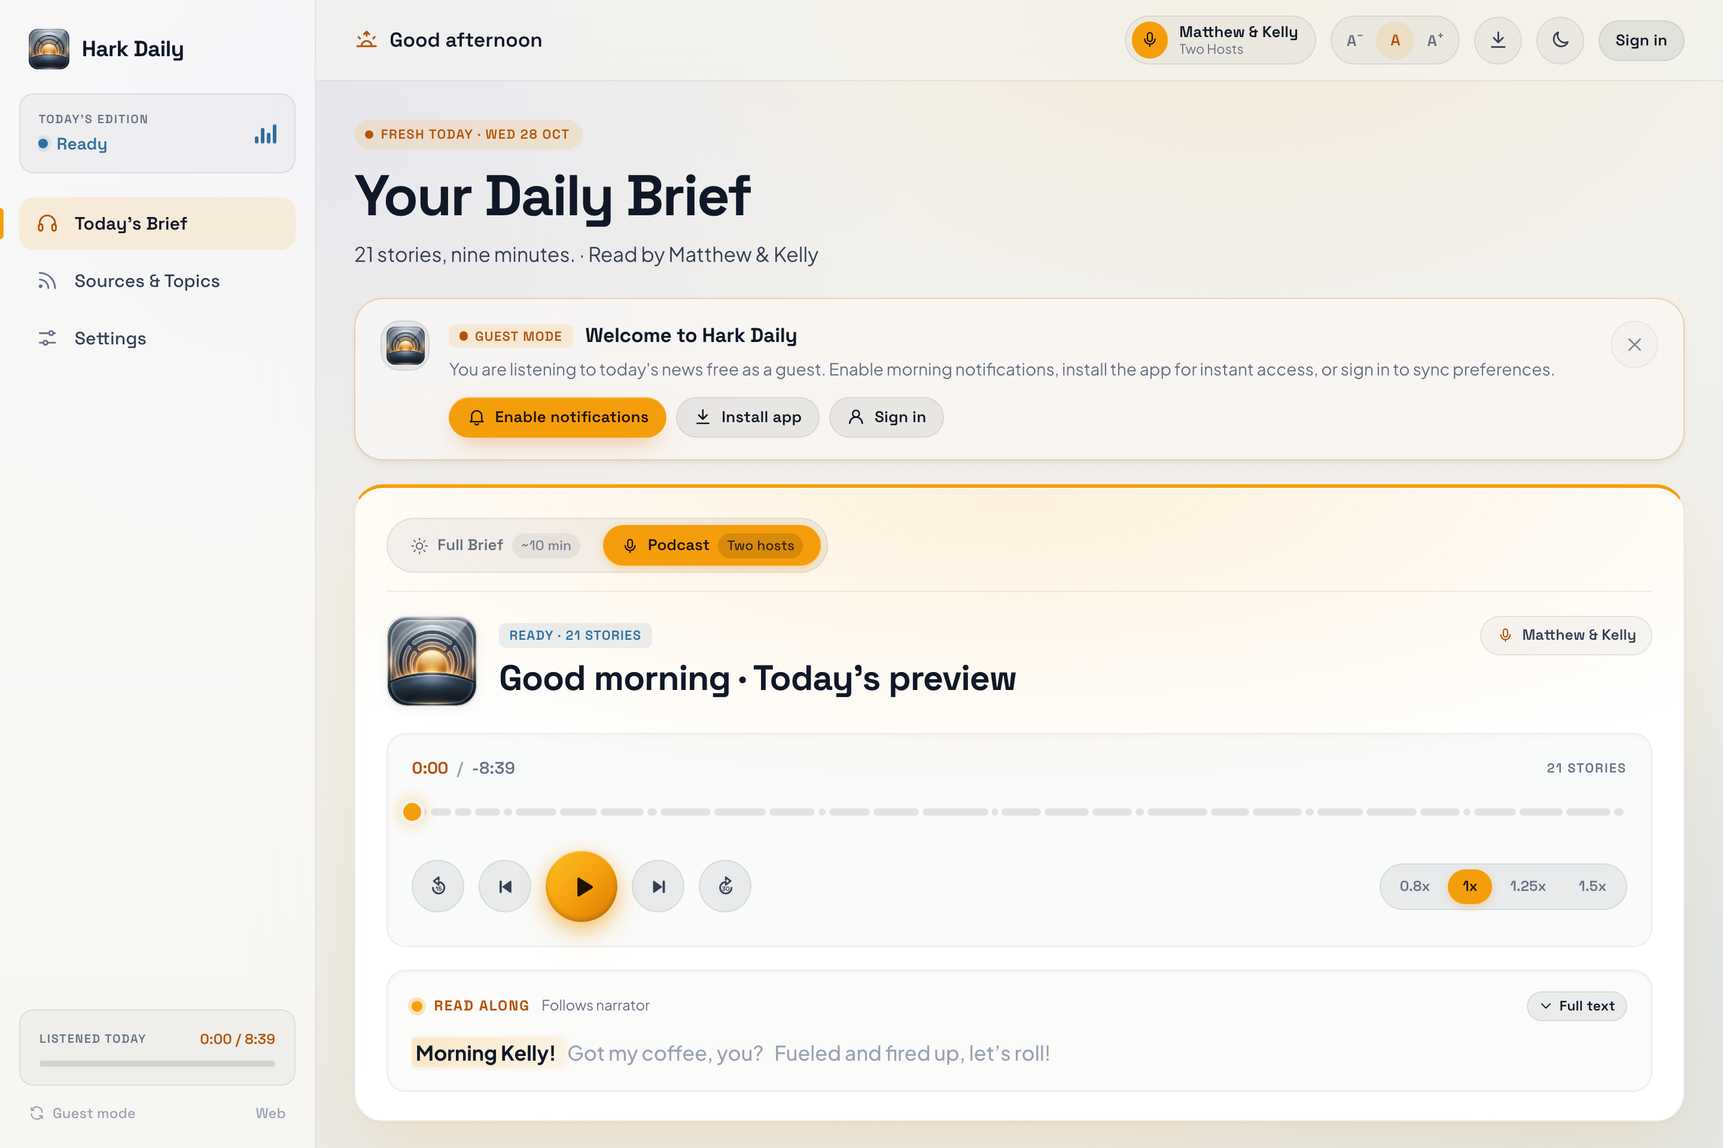
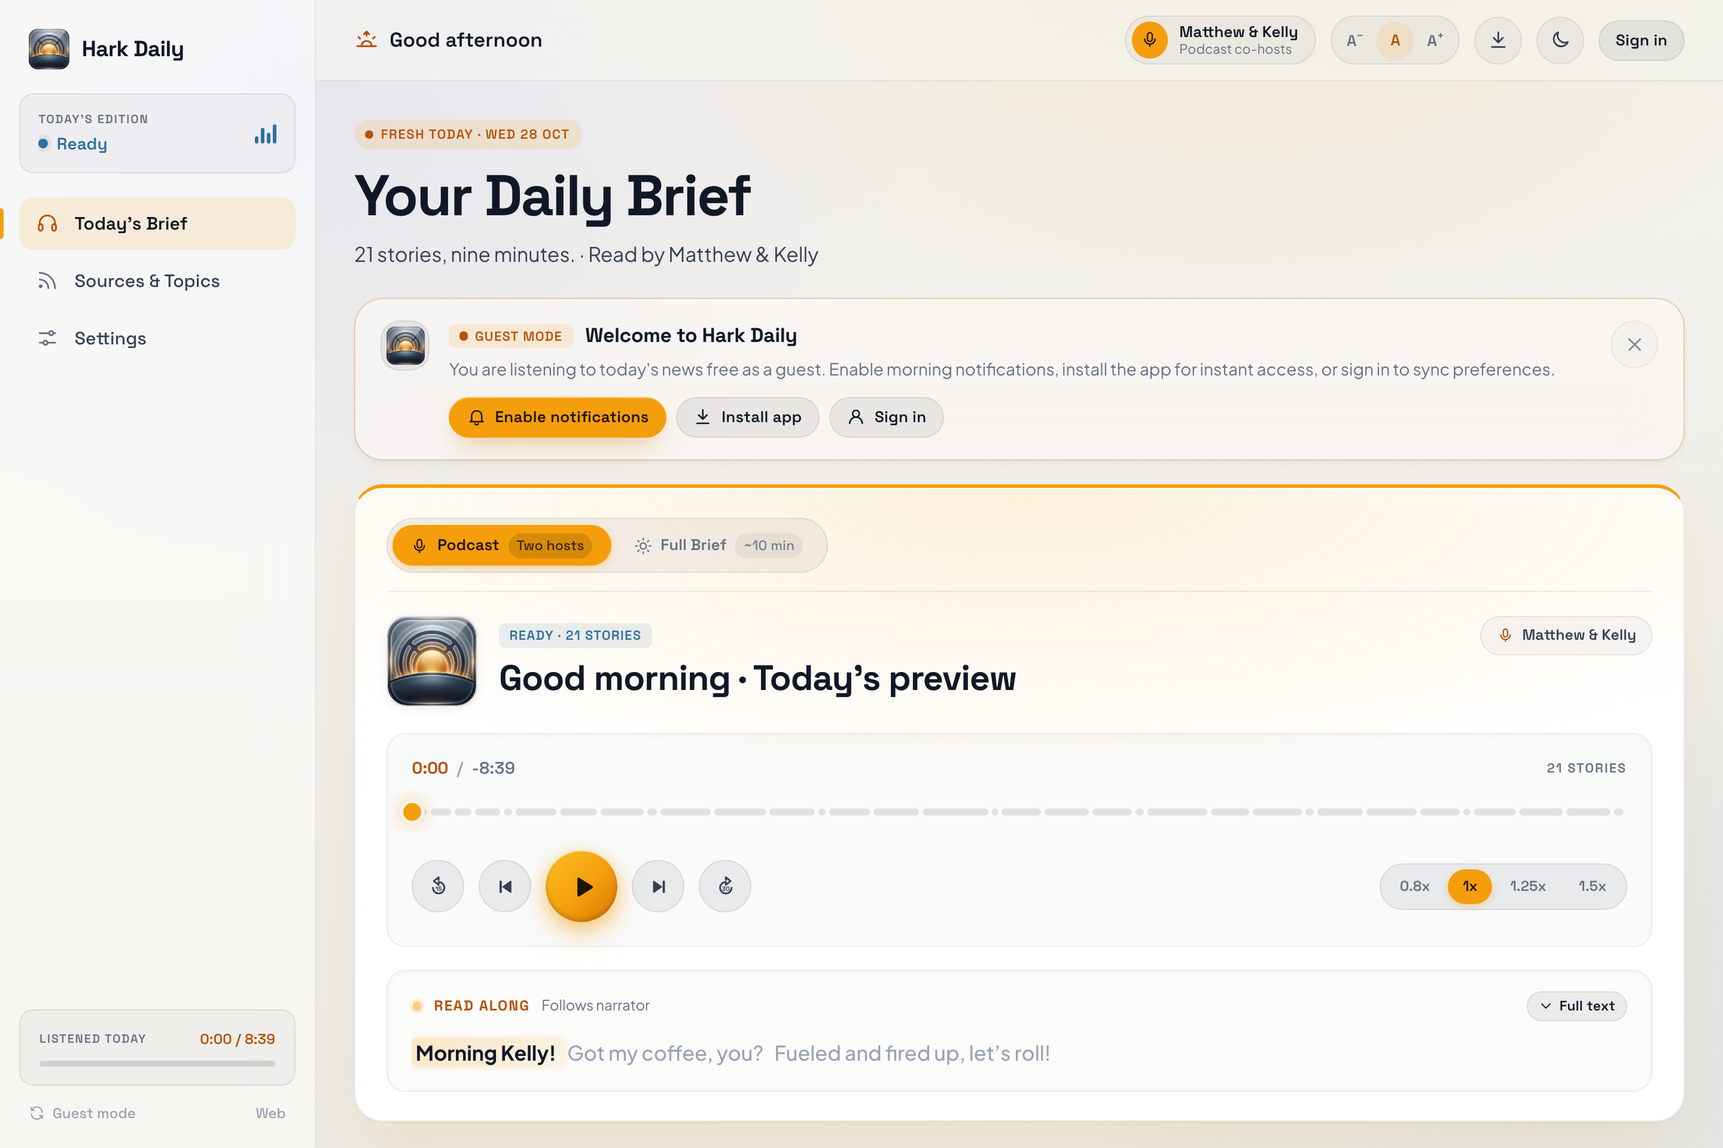
feat: default to podcast mode with swapped tabs and lock voice switching in podcast

Changed region(s): [[0.2188, 0.4375, 0.5, 0.5], [0.6875, 0.0312, 0.7188, 0.0625]]

diff --git a/web/js/app.js b/web/js/app.js
@@ -132,15 +132,18 @@ function renderHeader() {
   }
 
   // Active narrator chip & preview
+  const isPodcast = activeMode() === 'podcast';
   const activeVoiceId = b?.voice?.id || state.profile?.settings?.voice || DEFAULT_VOICE_ID;
   const activeVoice = voiceFor(activeVoiceId);
   const nName = $('narratorName');
-  if (nName) nName.textContent = activeVoice.name;
+  if (nName) nName.textContent = isPodcast && b?.voice?.name ? b.voice.name : activeVoice.name;
   const nDesc = $('narratorDesc');
-  if (nDesc) nDesc.textContent = activeVoice.style || activeVoice.desc;
+  if (nDesc) nDesc.textContent = isPodcast ? 'Podcast co-hosts' : (activeVoice.style || activeVoice.desc);
   const narrBy = $('narratedBy');
   if (narrBy) {
-    if (b?.voice?.isFallback && b?.voice?.requested) {
+    if (isPodcast) {
+      narrBy.textContent = `Voiced by ${b?.voice?.name || 'co-hosts'} · Daily podcast discussion`;
+    } else if (b?.voice?.isFallback && b?.voice?.requested) {
       narrBy.textContent = `Narrated by ${activeVoice.name} (${voiceName(b.voice.requested)} unrecorded) · ${activeVoice.style || activeVoice.desc}`;
     } else {
       narrBy.textContent = `Narrated by ${activeVoice.name} · ${activeVoice.style || activeVoice.desc}`;
@@ -148,6 +151,22 @@ function renderHeader() {
   }
   const heroNarrName = $('heroNarratorName');
   if (heroNarrName) heroNarrName.textContent = b?.voice?.name || activeVoice.name;
+
+  const heroNarrBtn = $('heroNarratorBtn');
+  const narrChip = $('narratorChip');
+  if (isPodcast) {
+    heroNarrBtn?.classList.add('is-podcast-locked');
+    heroNarrBtn?.setAttribute('aria-label', `${b?.voice?.name || 'Co-hosts'} (locked in Podcast mode)`);
+    heroNarrBtn?.setAttribute('title', 'Podcast mode uses pre-selected co-hosts. Switch to Full Brief to change narrator.');
+    narrChip?.classList.add('is-podcast-locked');
+    narrChip?.setAttribute('title', 'Podcast mode uses pre-selected co-hosts. Switch to Full Brief to change narrator.');
+  } else {
+    heroNarrBtn?.classList.remove('is-podcast-locked');
+    heroNarrBtn?.setAttribute('aria-label', 'Change narrator');
+    heroNarrBtn?.setAttribute('title', 'Change narrator');
+    narrChip?.classList.remove('is-podcast-locked');
+    narrChip?.setAttribute('title', 'Change narrator');
+  }
 
   // Avatar and Sign In controls for guest vs signed-in
   const isGuest = !state.profile;
@@ -294,11 +313,12 @@ function podcastOn() {
   return FEATURES.podcast && state.status?.podcast?.enabled !== false;
 }
 
-/** The edition to build: a stored choice that has since been switched off falls back to Full. */
+/** The edition to build: defaults to Podcast when available, falls back to Full. */
 function activeMode() {
-  if (state.mode === 'podcast') return podcastOn() ? 'podcast' : 'full';
+  if (state.mode === 'full') return 'full';
   if (state.mode === 'rapid') return FEATURES.rapid ? 'rapid' : 'full';
-  return 'full';
+  if (state.mode === 'podcast' || !state.mode) return podcastOn() ? 'podcast' : 'full';
+  return podcastOn() ? 'podcast' : 'full';
 }
 
 function syncModePicker() {
@@ -313,7 +333,7 @@ function syncModePicker() {
   podcastBtn?.classList.toggle('hidden', !podcastOn());
   // A single edition needs no switcher.
   $('briefModeBar')?.classList.toggle('hidden', !FEATURES.rapid && !podcastOn());
-  for (const [btn, key] of [[fullBtn, 'full'], [rapidBtn, 'rapid'], [podcastBtn, 'podcast']]) {
+  for (const [btn, key] of [[podcastBtn, 'podcast'], [fullBtn, 'full'], [rapidBtn, 'rapid']]) {
     if (!btn) continue;
     btn.classList.toggle('on', mode === key);
     btn.setAttribute('aria-checked', String(mode === key));
@@ -356,25 +376,37 @@ function renderHero() {
 function renderPersonas() {
   const row = $('personaRow');
   if (!row) return;
+  const isPodcast = activeMode() === 'podcast';
   const activeVoiceId = state.briefing?.voice?.id || state.profile?.settings?.voice || DEFAULT_VOICE_ID;
   const available = new Set(state.briefing?.availableVoices || []);
+  const hintEl = $('narratorSheetHint');
+  if (hintEl) {
+    hintEl.textContent = isPodcast
+      ? 'Podcast mode uses pre-selected co-hosts (Matthew & Kelly). Switch to Full Brief on the player to customize your narrator.'
+      : 'All four narrators read the daily briefing for the Full Brief edition. Pick who you\'d like to hear.';
+  }
   row.replaceChildren(...VOICES.map((v) => {
-    const on = v.id === activeVoiceId;
+    const on = !isPodcast && v.id === activeVoiceId;
     const isReady = available.size === 0 || available.has(v.id);
     const btn = h('button', {
       type: 'button',
-      class: 'persona' + (on ? ' on' : '') + (!isReady ? ' unready' : ''),
+      class: 'persona' + (on ? ' on' : '') + (!isReady ? ' unready' : '') + (isPodcast ? ' is-locked' : ''),
       'aria-pressed': String(on),
+      disabled: isPodcast,
       dataset: { voice: v.id },
     },
       h('span', { class: 'persona-avatar' }, icon(v.icon || 'mic')),
       h('span', { class: 'persona-text' },
         h('span', { class: 'persona-name' }, v.name),
-        h('span', { class: 'persona-desc' }, isReady ? (v.style || v.desc) : 'Pending for today')
+        h('span', { class: 'persona-desc' }, isPodcast ? 'Pre-selected for Full Brief only' : (isReady ? (v.style || v.desc) : 'Pending for today'))
       ),
-      isReady ? null : h('span', { class: 'persona-status' }, 'Pending')
+      isPodcast ? h('span', { class: 'persona-status' }, 'Locked') : (isReady ? null : h('span', { class: 'persona-status' }, 'Pending'))
     );
     btn.addEventListener('click', async () => {
+      if (isPodcast) {
+        toast('Podcast mode is voiced by co-hosts Matthew & Kelly. Switch to Full Brief to choose a narrator.');
+        return;
+      }
       if (v.id === activeVoiceId) {
         $('narratorSheet')?.close();
         return;
@@ -999,6 +1031,10 @@ function bindEvents() {
   const narrSheet = $('narratorSheet');
   if (narrSheet) wireSheet(narrSheet);
   const openNarratorSheet = () => {
+    if (activeMode() === 'podcast') {
+      toast('Podcast mode is voiced by co-hosts Matthew & Kelly. Switch to Full Brief to choose a narrator.');
+      return;
+    }
     renderPersonas();
     narrSheet?.showModal();
   };

diff --git a/android/app/src/main/java/me/vattitude/morningbrief/ui/TodayScreen.kt b/android/app/src/main/java/me/vattitude/morningbrief/ui/TodayScreen.kt
@@ -392,7 +392,7 @@ fun TodayScreen(vm: AppViewModel, modifier: Modifier = Modifier) {
                     }
             ) {
                 Column(Modifier.padding(horizontal = 14.dp, vertical = 12.dp)) {
-                    // Briefing Edition Switcher: Full Brief vs Podcast (Clean single-line pills)
+                    // Briefing Edition Switcher: Podcast vs Full Brief (Clean single-line pills)
                     Row(
                         Modifier
                             .fillMaxWidth()
@@ -402,38 +402,6 @@ fun TodayScreen(vm: AppViewModel, modifier: Modifier = Modifier) {
                             .padding(2.5.dp),
                         horizontalArrangement = Arrangement.spacedBy(3.dp)
                     ) {
-                        val fullOn = !isPodcast && !isRapid
-                        Row(
-                            Modifier
-                                .weight(1f)
-                                .height(32.dp)
-                                .clip(CircleShape)
-                                .background(if (fullOn) t.accent else Color.Transparent)
-                                .clickable { vm.setBriefingMode("full") }
-                                .padding(horizontal = 8.dp),
-                            verticalAlignment = Alignment.CenterVertically,
-                            horizontalArrangement = Arrangement.Center
-                        ) {
-                            Icon(
-                                Icons.Outlined.WbSunny,
-                                contentDescription = null,
-                                modifier = Modifier.size(13.dp),
-                                tint = if (fullOn) t.accentInk else t.muted
-                            )
-                            Spacer(Modifier.width(5.dp))
-                            Text(
-                                "Full Brief",
-                                style = Type.value.copy(fontSize = 11.5.sp, fontWeight = if (fullOn) FontWeight.Bold else FontWeight.Medium),
-                                color = if (fullOn) t.accentInk else t.muted
-                            )
-                            Spacer(Modifier.width(4.dp))
-                            Text(
-                                "~10m",
-                                style = Type.tiny.copy(fontSize = 10.sp),
-                                color = if (fullOn) t.accentInk.copy(alpha = 0.8f) else t.muted.copy(alpha = 0.7f)
-                            )
-                        }
-
                         val podcastOn = isPodcast
                         Row(
                             Modifier
@@ -463,6 +431,38 @@ fun TodayScreen(vm: AppViewModel, modifier: Modifier = Modifier) {
                                 "Two hosts",
                                 style = Type.tiny.copy(fontSize = 10.sp, fontWeight = FontWeight.SemiBold),
                                 color = if (podcastOn) t.accentInk.copy(alpha = 0.9f) else t.muted
+                            )
+                        }
+
+                        val fullOn = !isPodcast && !isRapid
+                        Row(
+                            Modifier
+                                .weight(1f)
+                                .height(32.dp)
+                                .clip(CircleShape)
+                                .background(if (fullOn) t.accent else Color.Transparent)
+                                .clickable { vm.setBriefingMode("full") }
+                                .padding(horizontal = 8.dp),
+                            verticalAlignment = Alignment.CenterVertically,
+                            horizontalArrangement = Arrangement.Center
+                        ) {
+                            Icon(
+                                Icons.Outlined.WbSunny,
+                                contentDescription = null,
+                                modifier = Modifier.size(13.dp),
+                                tint = if (fullOn) t.accentInk else t.muted
+                            )
+                            Spacer(Modifier.width(5.dp))
+                            Text(
+                                "Full Brief",
+                                style = Type.value.copy(fontSize = 11.5.sp, fontWeight = if (fullOn) FontWeight.Bold else FontWeight.Medium),
+                                color = if (fullOn) t.accentInk else t.muted
+                            )
+                            Spacer(Modifier.width(4.dp))
+                            Text(
+                                "~10m",
+                                style = Type.tiny.copy(fontSize = 10.sp),
+                                color = if (fullOn) t.accentInk.copy(alpha = 0.8f) else t.muted.copy(alpha = 0.7f)
                             )
                         }
                     }

diff --git a/web/index.html b/web/index.html
@@ -386,15 +386,15 @@
             <section class="glass hero hidden" id="hero" aria-label="Audio briefing">
               <div class="brief-mode-bar" id="briefModeBar">
                 <div class="segmented mode-segmented" role="radiogroup" aria-label="Briefing edition">
-                  <button type="button" class="seg-opt on" id="modeFullBtn" role="radio" aria-checked="true">
-                    <svg class="mode-icon" aria-hidden="true"><use href="#i-sun"/></svg>
-                    <span>Full Brief</span>
-                    <span class="mode-meta" id="modeFullMeta">~10 min</span>
-                  </button>
-                  <button type="button" class="seg-opt hidden" id="modePodcastBtn" role="radio" aria-checked="false">
+                  <button type="button" class="seg-opt on" id="modePodcastBtn" role="radio" aria-checked="true">
                     <svg class="mode-icon" aria-hidden="true"><use href="#i-mic"/></svg>
                     <span>Podcast</span>
                     <span class="mode-meta" id="modePodcastMeta">Two hosts</span>
+                  </button>
+                  <button type="button" class="seg-opt" id="modeFullBtn" role="radio" aria-checked="false">
+                    <svg class="mode-icon" aria-hidden="true"><use href="#i-sun"/></svg>
+                    <span>Full Brief</span>
+                    <span class="mode-meta" id="modeFullMeta">~10 min</span>
                   </button>
                   <button type="button" class="seg-opt hidden" id="modeRapidBtn" role="radio" aria-checked="false">
                     <svg class="mode-icon icon-rapid" aria-hidden="true"><use href="#i-bolt"/></svg>
@@ -573,15 +573,15 @@
           <div class="setting-group" id="welcomeModeGroup">
             <h3>Preferred Edition</h3>
             <div class="segmented mode-segmented welcome-mode" role="radiogroup" aria-label="Default edition">
-              <button type="button" class="seg-opt on" id="welcomeModeFull" role="radio" aria-checked="true">
-                <svg class="mode-icon" aria-hidden="true"><use href="#i-sun"/></svg>
-                <span>Full Brief</span>
-                <span class="mode-meta">~10 min</span>
-              </button>
-              <button type="button" class="seg-opt hidden" id="welcomeModePodcast" role="radio" aria-checked="false">
+              <button type="button" class="seg-opt on" id="welcomeModePodcast" role="radio" aria-checked="true">
                 <svg class="mode-icon" aria-hidden="true"><use href="#i-mic"/></svg>
                 <span>Podcast</span>
                 <span class="mode-meta">Two hosts</span>
+              </button>
+              <button type="button" class="seg-opt" id="welcomeModeFull" role="radio" aria-checked="false">
+                <svg class="mode-icon" aria-hidden="true"><use href="#i-sun"/></svg>
+                <span>Full Brief</span>
+                <span class="mode-meta">~10 min</span>
               </button>
               <button type="button" class="seg-opt hidden" id="welcomeModeRapid" role="radio" aria-checked="false">
                 <svg class="mode-icon icon-rapid" aria-hidden="true"><use href="#i-bolt"/></svg>
@@ -726,7 +726,7 @@
       <button class="icon-btn" data-close aria-label="Close"><svg><use href="#i-close"/></svg></button>
     </div>
     <div class="sheet-body">
-      <p class="hint">All four narrators read the same daily briefing. Pick who you'd like to hear.</p>
+      <p class="hint" id="narratorSheetHint">All four narrators read the daily briefing for the Full Brief edition. Pick who you'd like to hear.</p>
       <div class="persona-sheet-grid" id="personaRow"></div>
     </div>
     <div class="sheet-foot">

diff --git a/android/app/src/main/java/me/vattitude/morningbrief/ui/SettingsScreen.kt b/android/app/src/main/java/me/vattitude/morningbrief/ui/SettingsScreen.kt
@@ -189,24 +189,6 @@ fun SettingsScreen(vm: AppViewModel, modifier: Modifier = Modifier) {
             val isPodcast = briefingMode == "podcast"
             GlassGroup {
                 Row(
-                    Modifier.fillMaxWidth().clickable { vm.setBriefingMode("full") }.padding(vertical = 12.dp, horizontal = 4.dp),
-                    verticalAlignment = Alignment.CenterVertically
-                ) {
-                    Box(
-                        Modifier.size(38.dp).clip(CircleShape).background(if (!isPodcast) t.accent else t.track),
-                        contentAlignment = Alignment.Center
-                    ) {
-                        Icon(Icons.Outlined.WbSunny, null, Modifier.size(20.dp), tint = if (!isPodcast) t.accentInk else t.muted)
-                    }
-                    Spacer(Modifier.width(12.dp))
-                    Column(Modifier.weight(1f)) {
-                        Text("Standard Edition", style = Type.body.copy(fontWeight = FontWeight.SemiBold), color = t.ink)
-                        Text("Full comprehensive morning brief (~10–15 min)", style = Type.tiny, color = t.muted)
-                    }
-                    CheckDot(!isPodcast)
-                }
-                Hairline()
-                Row(
                     Modifier.fillMaxWidth().clickable { vm.setBriefingMode("podcast") }.padding(vertical = 12.dp, horizontal = 4.dp),
                     verticalAlignment = Alignment.CenterVertically
                 ) {
@@ -230,6 +212,24 @@ fun SettingsScreen(vm: AppViewModel, modifier: Modifier = Modifier) {
                         Text("Two hosts chatting around today's stories (~10 min)", style = Type.tiny, color = t.muted)
                     }
                     CheckDot(isPodcast)
+                }
+                Hairline()
+                Row(
+                    Modifier.fillMaxWidth().clickable { vm.setBriefingMode("full") }.padding(vertical = 12.dp, horizontal = 4.dp),
+                    verticalAlignment = Alignment.CenterVertically
+                ) {
+                    Box(
+                        Modifier.size(38.dp).clip(CircleShape).background(if (!isPodcast) t.accent else t.track),
+                        contentAlignment = Alignment.Center
+                    ) {
+                        Icon(Icons.Outlined.WbSunny, null, Modifier.size(20.dp), tint = if (!isPodcast) t.accentInk else t.muted)
+                    }
+                    Spacer(Modifier.width(12.dp))
+                    Column(Modifier.weight(1f)) {
+                        Text("Standard Edition", style = Type.body.copy(fontWeight = FontWeight.SemiBold), color = t.ink)
+                        Text("Full comprehensive morning brief (~10–15 min)", style = Type.tiny, color = t.muted)
+                    }
+                    CheckDot(!isPodcast)
                 }
             }
 
@@ -374,7 +374,7 @@ private fun NarratorGroup(vm: AppViewModel) {
         }
         Hairline()
         Hint(
-            "All four voices are recorded each morning from the same stories, so switching only changes who you hear. It starts with your next brief.",
+            "All four voices are recorded each morning from the same stories for the Standard Edition, so switching only changes who you hear. Podcast Edition uses co-hosts.",
             Modifier.padding(horizontal = 4.dp, vertical = 8.dp),
         )
         Hairline()

diff --git a/web/css/styles.css b/web/css/styles.css
@@ -734,6 +734,7 @@ body:not([data-tab="today"]) .search, body:not([data-tab="today"]) .status-chip 
   transition: border-color .2s, background-color .2s;
 }
 .narrator-chip:hover { border-color: var(--accent-line); background: var(--accent-soft); }
+.narrator-chip.is-podcast-locked:hover { border-color: var(--line); background: var(--well); cursor: default; }
 .narrator-glyph { display: grid; place-items: center; width: 1.9rem; height: 1.9rem; border-radius: 50%; color: var(--accent-ink); background: var(--accent); }
 .narrator-glyph svg { width: 1rem; height: 1rem; }
 .narrator-text { display: flex; flex-direction: column; line-height: 1.15; }
@@ -1038,6 +1039,9 @@ main { flex: 1; }
 }
 .narrator-pill-btn svg { width: .9rem; height: .9rem; color: var(--accent-text); }
 .narrator-pill-btn:hover { background: var(--accent-soft); border-color: var(--accent-line); color: var(--accent-text); transform: translateY(-1px); }
+.narrator-pill-btn.is-podcast-locked { cursor: default; }
+.narrator-pill-btn.is-podcast-locked:hover { background: rgba(15, 23, 42, .04); border-color: rgba(15, 23, 42, .08); color: var(--ink-2); transform: none; }
+:root[data-theme="dark"] .narrator-pill-btn.is-podcast-locked:hover { background: rgba(255, 255, 255, .06); border-color: rgba(255, 255, 255, .1); color: var(--ink); }
 
 /* Recessed acoustic console deck (eliminates nested box borders) */
 .wave-panel {
@@ -1190,6 +1194,8 @@ main { flex: 1; }
   box-shadow: 0 8px 24px -14px rgba(245, 158, 11, .6);
 }
 .persona.busy { opacity: .7; pointer-events: none; }
+.persona.is-locked { opacity: .55; cursor: not-allowed; }
+.persona.is-locked:hover { transform: none; border-color: var(--line); background: var(--well); }
 .persona-avatar { display: grid; place-items: center; flex: none; width: 2.6rem; height: 2.6rem; border-radius: var(--r); color: var(--ink-2); background: var(--well-strong); }
 .persona-avatar svg { width: 1.25rem; height: 1.25rem; }
 .persona.on .persona-avatar { color: var(--accent-ink); background: var(--accent); }

diff --git a/web/js/sheets.js b/web/js/sheets.js
@@ -208,8 +208,8 @@ export class WelcomeSheet {
   /** Show only the editions that are switched on (config.js and the server flag), and mark the choice. */
   paintMode() {
     const offered = { full: true, rapid: FEATURES.rapid, podcast: FEATURES.podcast && Boolean(this.status?.podcast?.enabled) };
-    if (!offered[this.preferredMode]) this.preferredMode = 'full';
-    const ids = { full: 'welcomeModeFull', rapid: 'welcomeModeRapid', podcast: 'welcomeModePodcast' };
+    if (!offered[this.preferredMode]) this.preferredMode = offered.podcast ? 'podcast' : 'full';
+    const ids = { podcast: 'welcomeModePodcast', full: 'welcomeModeFull', rapid: 'welcomeModeRapid' };
     for (const [key, id] of Object.entries(ids)) {
       const btn = document.getElementById(id);
       if (!btn) continue;

diff --git a/web/js/pages/settings.js b/web/js/pages/settings.js
@@ -298,7 +298,7 @@ export class SettingsPage {
     return GlassGroup(
       h('div', { class: 'voice-list' }, ...rows),
       Hairline(),
-      Hint('All four narrators read the same daily briefing, so switching only changes who you hear. Changes take effect on your next brief or switch on the Today screen.'),
+      Hint('All four narrators read the same daily briefing for the Full Brief edition. Podcast mode uses pre-selected co-hosts (Matthew & Kelly).'),
       Hairline(),
       ListRow({
         label: 'Playback speed',
